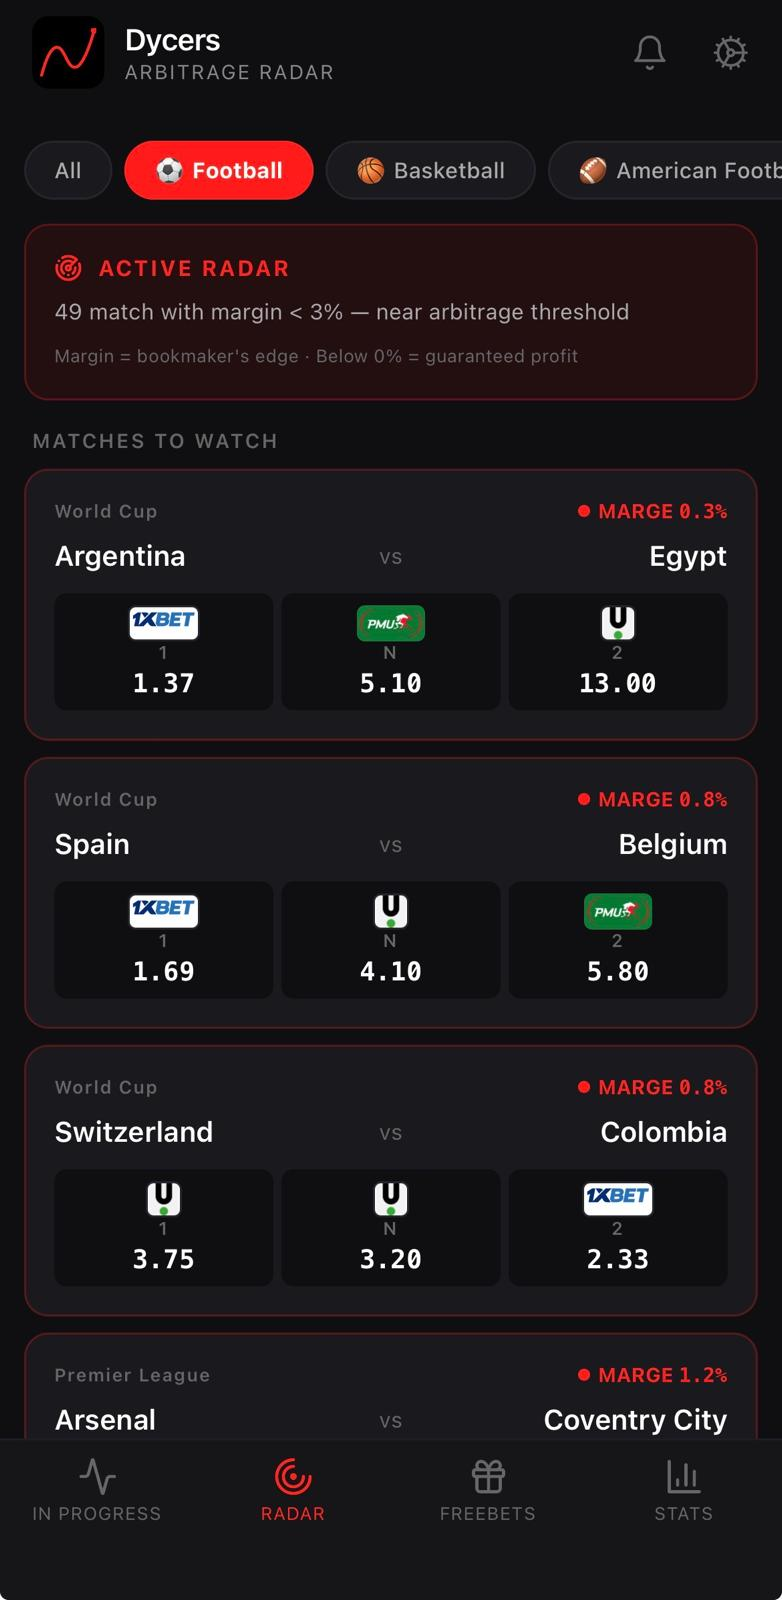
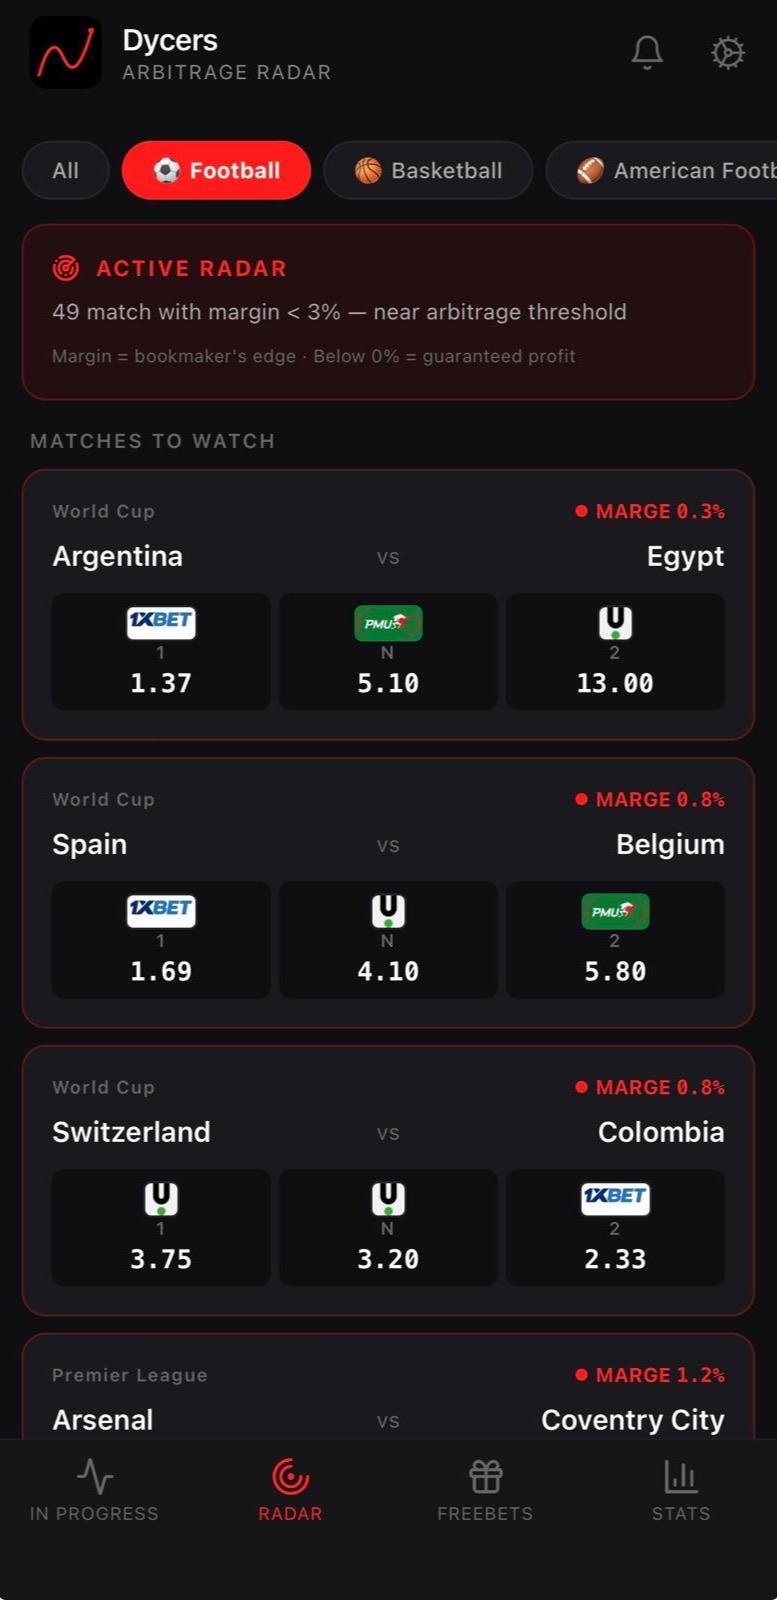
Refresh site with latest app screenshots, radar-first
- Radar screenshot now leads: hero phone + feature 01 + gallery
- Replace all screenshots with the latest set (radar, freebets,
  homescreen, choose-bet, history), normalized to 777x1600 so every
  shot renders at identical width and height
- Uniform gallery cards with framed shots and enforced aspect ratio
- Add Winamax to the bookmaker strip; update tracking/stats copy to
  match the real screens
- Perf & polish: preload hero image, lazy-load below-fold images,
  explicit image dimensions (no layout shift), JSON-LD app schema,
  Apple smart app banner, focus-visible styles, remove fake notch

diff --git a/index.html b/index.html
@@ -4,24 +4,41 @@
   <meta charset="utf-8">
   <meta name="viewport" content="width=device-width, initial-scale=1">
   <title>Dycers — Turn free bets and odds into profit</title>
-  <meta name="description" content="Dycers is the smart companion for sports bettors: a free-bet optimizer, real-time arbitrage radar, live bet tracking and a full performance dashboard. Free on iOS and Android.">
+  <meta name="description" content="Dycers is the smart companion for sports bettors: a real-time arbitrage radar, a free-bet optimizer, live bet tracking and a full performance dashboard. Free on iOS and Android.">
   <meta name="theme-color" content="#08080a">
+  <meta name="apple-itunes-app" content="app-id=6773751232">
   <link rel="canonical" href="https://www.dycers.com/">
 
   <!-- Social sharing -->
   <meta property="og:type" content="website">
   <meta property="og:site_name" content="Dycers">
   <meta property="og:title" content="Dycers — Turn free bets and odds into profit">
-  <meta property="og:description" content="Free-bet optimizer, arbitrage radar, live bet tracking and a full stats dashboard. Free on iOS and Android.">
+  <meta property="og:description" content="Real-time arbitrage radar, free-bet optimizer, live bet tracking and a full stats dashboard. Free on iOS and Android.">
   <meta property="og:url" content="https://www.dycers.com/">
   <meta property="og:image" content="https://www.dycers.com/assets/logo.png">
   <meta name="twitter:card" content="summary_large_image">
   <meta name="twitter:title" content="Dycers — Turn free bets and odds into profit">
-  <meta name="twitter:description" content="Free-bet optimizer, arbitrage radar, live bet tracking and a full stats dashboard.">
+  <meta name="twitter:description" content="Real-time arbitrage radar, free-bet optimizer, live bet tracking and a full stats dashboard.">
   <meta name="twitter:image" content="https://www.dycers.com/assets/logo.png">
 
   <link rel="icon" type="image/png" href="/assets/logo.png">
   <link rel="apple-touch-icon" href="/assets/logo.png">
+  <link rel="preload" as="image" href="/assets/screens/radar.jpg" fetchpriority="high">
+
+  <script type="application/ld+json">
+  {
+    "@context": "https://schema.org",
+    "@type": "MobileApplication",
+    "name": "Dycers",
+    "operatingSystem": "iOS, Android",
+    "applicationCategory": "SportsApplication",
+    "url": "https://www.dycers.com/",
+    "image": "https://www.dycers.com/assets/logo.png",
+    "description": "Real-time arbitrage radar, free-bet optimizer, live bet tracking and a full stats dashboard for sports bettors.",
+    "offers": { "@type": "Offer", "price": "0", "priceCurrency": "EUR" },
+    "publisher": { "@type": "Organization", "name": "LF Digital Ventures" }
+  }
+  </script>
 
   <style>
     :root{
@@ -39,6 +56,7 @@
       --green:#22d17a;
       --radius:20px;
       --maxw:1160px;
+      --shot-ar:777/1600;
       --font:-apple-system,BlinkMacSystemFont,"SF Pro Display","Segoe UI",Roboto,Helvetica,Arial,sans-serif;
     }
     *{box-sizing:border-box;margin:0;padding:0}
@@ -54,7 +72,10 @@
     }
     a{color:inherit;text-decoration:none}
     img{display:block;max-width:100%}
+    ::selection{background:rgba(255,37,48,.35)}
+    :focus-visible{outline:2px solid var(--red);outline-offset:3px;border-radius:6px}
     .wrap{width:100%;max-width:var(--maxw);margin:0 auto;padding:0 24px}
+    section[id],div[id]{scroll-margin-top:84px}
 
     /* ---------- ambient background ---------- */
     .glow{position:fixed;border-radius:50%;filter:blur(120px);pointer-events:none;z-index:0}
@@ -125,8 +146,7 @@
       background:linear-gradient(160deg,#26262e,#111116);
       box-shadow:0 40px 90px -30px rgba(0,0,0,.9),0 0 0 1px rgba(255,255,255,.06);
     }
-    .phone::after{content:"";position:absolute;top:14px;left:50%;transform:translateX(-50%);width:96px;height:22px;background:#000;border-radius:0 0 14px 14px;z-index:3}
-    .phone img{width:100%;border-radius:30px;display:block}
+    .phone img{width:100%;height:auto;aspect-ratio:var(--shot-ar);object-fit:cover;border-radius:30px;display:block}
     .hero-visual .halo{position:absolute;inset:-8% -14% -14% -14%;background:radial-gradient(circle at 50% 40%,rgba(255,37,48,.35),transparent 62%);filter:blur(30px);z-index:-1}
     .float-tag{
       position:absolute;background:rgba(18,18,24,.9);border:1px solid var(--border-strong);
@@ -136,6 +156,7 @@
     .float-tag .k{color:var(--muted);font-size:11px;font-weight:600;letter-spacing:.03em}
     .float-tag .v{font-weight:700;font-size:16px}
     .float-tag.green .v{color:var(--green)}
+    .float-tag.red .v{color:var(--red)}
     .ft-1{top:64px;left:-26px}
     .ft-2{bottom:96px;right:-30px}
     @media(max-width:920px){
@@ -197,7 +218,14 @@
     .rail::-webkit-scrollbar{height:8px}
     .rail::-webkit-scrollbar-thumb{background:var(--border-strong);border-radius:999px}
     .rail .shot{flex:0 0 auto;width:216px;scroll-snap-align:center}
-    .rail .shot img{width:100%;border-radius:24px;border:1px solid var(--border);box-shadow:0 24px 50px -24px rgba(0,0,0,.8)}
+    .rail .shot .shot-frame{
+      border-radius:26px;padding:7px;
+      background:linear-gradient(160deg,#26262e,#111116);
+      box-shadow:0 24px 50px -24px rgba(0,0,0,.8),0 0 0 1px rgba(255,255,255,.06);
+      transition:transform .25s ease,box-shadow .25s ease;
+    }
+    .rail .shot:hover .shot-frame{transform:translateY(-6px);box-shadow:0 34px 60px -24px rgba(0,0,0,.9),0 0 0 1px rgba(255,255,255,.1)}
+    .rail .shot img{width:100%;height:auto;aspect-ratio:var(--shot-ar);object-fit:cover;border-radius:20px}
     .rail .shot span{display:block;text-align:center;color:var(--muted);font-size:13px;margin-top:14px;font-weight:500}
 
     /* ---------- final cta ---------- */
@@ -237,7 +265,7 @@
   <header class="nav">
     <div class="wrap nav-inner">
       <a href="#top" class="brand">
-        <img src="/assets/logo.png" alt="Dycers logo">
+        <img src="/assets/logo.png" alt="Dycers logo" width="34" height="34">
         Dycers
       </a>
       <nav class="nav-links">
@@ -257,7 +285,7 @@
       <div class="hero-copy">
         <span class="eyebrow">The bettor's edge</span>
         <h1>Stop guessing.<br><span class="accent">Start profiting.</span></h1>
-        <p class="lead">Dycers turns your free bets and bookmaker odds into an edge — a smart free-bet optimizer, a real-time arbitrage radar, live bet tracking and a full performance dashboard. All in one app.</p>
+        <p class="lead">Dycers turns bookmaker odds and free bets into an edge — a real-time arbitrage radar, a smart free-bet optimizer, live bet tracking and a full performance dashboard. All in one app.</p>
 
         <div class="badges" id="download">
           <a class="store" href="https://apps.apple.com/fr/app/dycers/id6773751232?l=en-GB" target="_blank" rel="noopener">
@@ -279,16 +307,16 @@
 
       <div class="hero-visual">
         <div class="halo"></div>
-        <div class="float-tag green ft-1">
-          <div class="k">EXPECTED VALUE</div>
-          <div class="v">+9.38 €</div>
-        </div>
-        <div class="float-tag ft-2">
+        <div class="float-tag red ft-1">
           <div class="k">ARBITRAGE MARGIN</div>
           <div class="v">0.3%</div>
         </div>
+        <div class="float-tag green ft-2">
+          <div class="k">MATCHES ON RADAR</div>
+          <div class="v">49</div>
+        </div>
         <div class="phone">
-          <img src="/assets/screens/freebets.jpg" alt="Dycers free-bet optimizer: choose bookmakers and stake, then find the best bet" width="252" height="516">
+          <img src="/assets/screens/radar.jpg" alt="Dycers arbitrage radar: live margins across bookmakers, sorted tightest first" width="777" height="1600" fetchpriority="high">
         </div>
       </div>
     </div>
@@ -299,11 +327,11 @@
     <div class="wrap">
       <span class="lbl">Works across your bookmakers</span>
       <span class="book">1xBet</span>
+      <span class="book">Winamax</span>
       <span class="book">Unibet</span>
       <span class="book">PMU</span>
       <span class="book">Betfair</span>
       <span class="book">Betsson</span>
-      <span class="book">Coolbet</span>
       <span class="book">+ more</span>
     </div>
   </div>
@@ -317,28 +345,10 @@
         <p>Everything a sharp bettor needs to squeeze value out of every offer, every match and every odds movement.</p>
       </div>
 
-      <!-- 1 Freebets -->
+      <!-- 1 Radar -->
       <div class="feature reveal" data-tone="red">
         <div class="feat-copy">
-          <span class="fnum">01 — FREEBETS OPTIMIZER</span>
-          <h3>Get the most out of every free bet</h3>
-          <p>Pick your bookmakers, enter your free-bet amount, and Dycers scans the board to surface the single best-value bet — ranked by expected return and confidence.</p>
-          <ul class="feat-list">
-            <li><span class="chk">✓</span> AI-estimated win probability on every pick</li>
-            <li><span class="chk">✓</span> Expected value in € so you know what it's worth</li>
-            <li><span class="chk">✓</span> "Top deal" and high-confidence flags at a glance</li>
-          </ul>
-        </div>
-        <div class="feat-visual">
-          <div class="fhalo"></div>
-          <div class="phone"><img src="/assets/screens/freebets.jpg" alt="Free-bet optimizer: pick bookmakers and free-bet amount"></div>
-        </div>
-      </div>
-
-      <!-- 2 Radar -->
-      <div class="feature reveal" data-tone="red">
-        <div class="feat-copy">
-          <span class="fnum">02 — ARBITRAGE RADAR</span>
+          <span class="fnum">01 — ARBITRAGE RADAR</span>
           <h3>Spot guaranteed-profit windows in real time</h3>
           <p>The radar continuously compares odds across bookmakers and flags matches where the combined margin drops near — or below — zero. Below 0% means a locked-in profit.</p>
           <ul class="feat-list">
@@ -349,7 +359,25 @@
         </div>
         <div class="feat-visual">
           <div class="fhalo"></div>
-          <div class="phone"><img src="/assets/screens/radar.jpg" alt="Arbitrage radar showing near-arbitrage matches"></div>
+          <div class="phone"><img src="/assets/screens/radar.jpg" alt="Arbitrage radar showing near-arbitrage World Cup matches with live margins" width="777" height="1600" loading="lazy" decoding="async"></div>
+        </div>
+      </div>
+
+      <!-- 2 Freebets -->
+      <div class="feature reveal" data-tone="red">
+        <div class="feat-copy">
+          <span class="fnum">02 — FREEBETS OPTIMIZER</span>
+          <h3>Get the most out of every free bet</h3>
+          <p>Pick your bookmakers, enter your free-bet amount, and Dycers scans the board to surface the single best-value bet — ranked by expected return and confidence.</p>
+          <ul class="feat-list">
+            <li><span class="chk">✓</span> AI-estimated win probability on every pick</li>
+            <li><span class="chk">✓</span> Expected value in € so you know what it's worth</li>
+            <li><span class="chk">✓</span> "Top deal" and high-confidence flags at a glance</li>
+          </ul>
+        </div>
+        <div class="feat-visual">
+          <div class="fhalo"></div>
+          <div class="phone"><img src="/assets/screens/freebets.jpg" alt="Free-bet optimizer: pick bookmakers and free-bet amount, get the top deal" width="777" height="1600" loading="lazy" decoding="async"></div>
         </div>
       </div>
 
@@ -360,14 +388,14 @@
           <h3>Track every open bet, catch every edge</h3>
           <p>Add your bets and Dycers follows them live — monitoring scores and odds so you never miss an arbitrage or hedging opportunity while a match is running.</p>
           <ul class="feat-list">
-            <li><span class="chk">✓</span> Real-time status on all your active bets</li>
+            <li><span class="chk">✓</span> Every active bet with stake, odds &amp; bookmaker</li>
             <li><span class="chk">✓</span> Automatic arbitrage detection as odds move</li>
-            <li><span class="chk">✓</span> Add a bet in seconds from any match</li>
+            <li><span class="chk">✓</span> Add a bet in seconds — search any team or league</li>
           </ul>
         </div>
         <div class="feat-visual">
           <div class="fhalo"></div>
-          <div class="phone"><img src="/assets/screens/tracking.jpg" alt="Live bet tracking screen"></div>
+          <div class="phone"><img src="/assets/screens/homescreen.jpg" alt="My active bets: live tracking of open bets with stake, odds and bookmaker" width="777" height="1600" loading="lazy" decoding="async"></div>
         </div>
       </div>
 
@@ -380,19 +408,19 @@
           <ul class="feat-list">
             <li><span class="chk">✓</span> Net profit &amp; win rate across all your bets</li>
             <li><span class="chk">✓</span> Every bet logged with odds, bookmaker &amp; result</li>
-            <li><span class="chk">✓</span> Win / loss breakdown by sport and league</li>
+            <li><span class="chk">✓</span> Final scores and per-bet profit at a glance</li>
           </ul>
         </div>
         <div class="feat-visual">
           <div class="fhalo"></div>
-          <div class="phone"><img src="/assets/screens/history.jpg" alt="Betting history and net gain dashboard"></div>
+          <div class="phone"><img src="/assets/screens/history.jpg" alt="Betting history with net gain, wins and losses per bet" width="777" height="1600" loading="lazy" decoding="async"></div>
         </div>
       </div>
 
       <!-- STATS BAND -->
       <div class="band reveal">
         <div class="band-grid">
-          <div><div class="num r">4-in-1</div><div class="cap">Optimizer, radar, tracker &amp; stats</div></div>
+          <div><div class="num r">4-in-1</div><div class="cap">Radar, optimizer, tracker &amp; stats</div></div>
           <div><div class="num g">&lt; 0%</div><div class="cap">Margin = guaranteed profit</div></div>
           <div><div class="num">Real-time</div><div class="cap">Odds &amp; arbitrage monitoring</div></div>
           <div><div class="num">Free</div><div class="cap">To download on iOS &amp; Android</div></div>
@@ -410,11 +438,11 @@
       </div>
     </div>
     <div class="rail">
-      <div class="shot"><img src="/assets/screens/freebets.jpg" alt="Free-bet optimizer: choose bookmakers and stake"><span>Freebets Optimizer</span></div>
-      <div class="shot"><img src="/assets/screens/radar.jpg" alt="Arbitrage radar"><span>Arbitrage Radar</span></div>
-      <div class="shot"><img src="/assets/screens/add-bet.jpg" alt="Choose a match"><span>Add a bet</span></div>
-      <div class="shot"><img src="/assets/screens/tracking.jpg" alt="Active bets tracking"><span>Live tracking</span></div>
-      <div class="shot"><img src="/assets/screens/history.jpg" alt="History and net gain"><span>Stats &amp; History</span></div>
+      <div class="shot"><div class="shot-frame"><img src="/assets/screens/radar.jpg" alt="Arbitrage radar with live margins" width="777" height="1600" loading="lazy" decoding="async"></div><span>Arbitrage Radar</span></div>
+      <div class="shot"><div class="shot-frame"><img src="/assets/screens/freebets.jpg" alt="Free-bet optimizer: choose bookmakers and stake" width="777" height="1600" loading="lazy" decoding="async"></div><span>Freebets Optimizer</span></div>
+      <div class="shot"><div class="shot-frame"><img src="/assets/screens/homescreen.jpg" alt="Active bets tracked live" width="777" height="1600" loading="lazy" decoding="async"></div><span>Live tracking</span></div>
+      <div class="shot"><div class="shot-frame"><img src="/assets/screens/choose-bet.jpg" alt="Choose a match: search teams and leagues with live odds" width="777" height="1600" loading="lazy" decoding="async"></div><span>Add a bet</span></div>
+      <div class="shot"><div class="shot-frame"><img src="/assets/screens/history.jpg" alt="History and net gain dashboard" width="777" height="1600" loading="lazy" decoding="async"></div><span>Stats &amp; History</span></div>
     </div>
   </section>
 
@@ -424,7 +452,7 @@
       <div class="cta-card reveal">
         <div class="cglow"></div>
         <h2>Your edge is one download away.</h2>
-        <p>Join the bettors using Dycers to optimize free bets, catch arbitrage and finally know their numbers.</p>
+        <p>Join the bettors using Dycers to catch arbitrage, optimize free bets and finally know their numbers.</p>
         <div class="badges">
           <a class="store" href="https://apps.apple.com/fr/app/dycers/id6773751232?l=en-GB" target="_blank" rel="noopener">
             <svg width="26" height="26" viewBox="0 0 24 24" fill="#fff" aria-hidden="true"><path d="M16.365 1.43c0 1.14-.417 2.2-1.25 3.02-.9.9-1.99 1.42-3.03 1.34-.13-1.09.42-2.24 1.2-3.02.86-.86 2.3-1.5 3.08-1.34zM20.5 17.02c-.55 1.27-.82 1.84-1.53 2.96-.99 1.57-2.39 3.52-4.12 3.53-1.54.02-1.93-.99-4.02-.98-2.08.01-2.52.99-4.06.97-1.73-.02-3.06-1.78-4.05-3.35C-.34 15.9-.63 10.6 1.4 7.85c1.05-1.44 2.71-2.35 4.28-2.35 1.6 0 2.6.99 3.92.99 1.28 0 2.06-.99 3.91-.99 1.4 0 2.88.76 3.93 2.08-3.45 1.89-2.89 6.8.06 7.44z"/></svg>
@@ -445,8 +473,8 @@
     <div class="wrap">
       <div class="foot-grid">
         <div class="foot-brand">
-          <a href="#top" class="brand"><img src="/assets/logo.png" alt="Dycers logo">Dycers</a>
-          <p>The bettor's edge — free-bet optimizer, arbitrage radar, live tracking and stats, in one app.</p>
+          <a href="#top" class="brand"><img src="/assets/logo.png" alt="Dycers logo" width="34" height="34">Dycers</a>
+          <p>The bettor's edge — arbitrage radar, free-bet optimizer, live tracking and stats, in one app.</p>
         </div>
         <div class="foot-cols">
           <div class="foot-col">

diff --git a/README.md b/README.md
@@ -4,7 +4,7 @@ Static GitHub Pages site for `www.dycers.com`.
 
 - `index.html` — marketing landing page (single self-contained file: inline CSS/JS, no build step). Links to the App Store, Google Play and the legal center at `legal.dycers.com`.
 - `assets/logo.png` — app icon, used as the site logo and favicon.
-- `assets/screens/` — in-app screenshots used across the page.
+- `assets/screens/` — in-app screenshots used across the page (all normalized to 777×1600): `radar.jpg`, `freebets.jpg`, `homescreen.jpg`, `choose-bet.jpg`, `history.jpg`.
 
 The root `app-ads.txt` file is used by Google AdMob app validation:
 